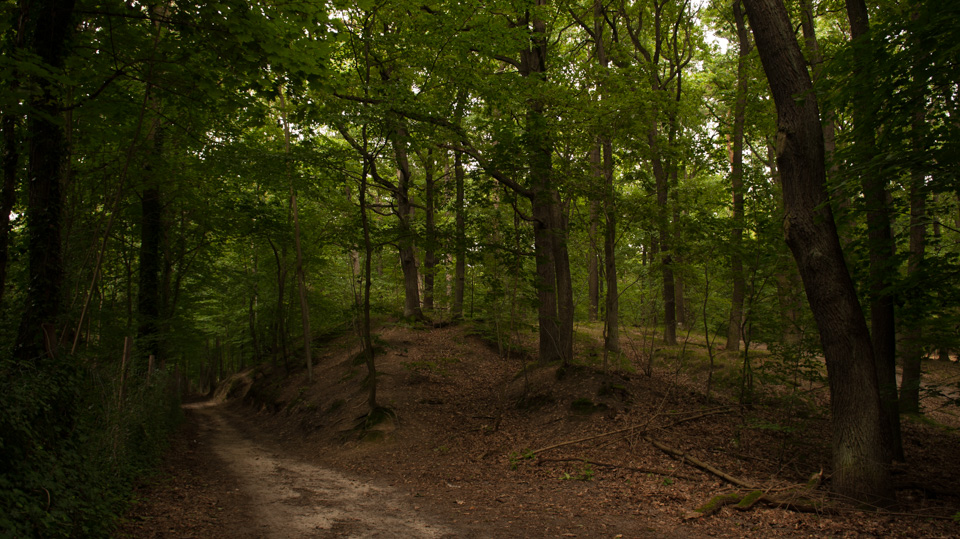
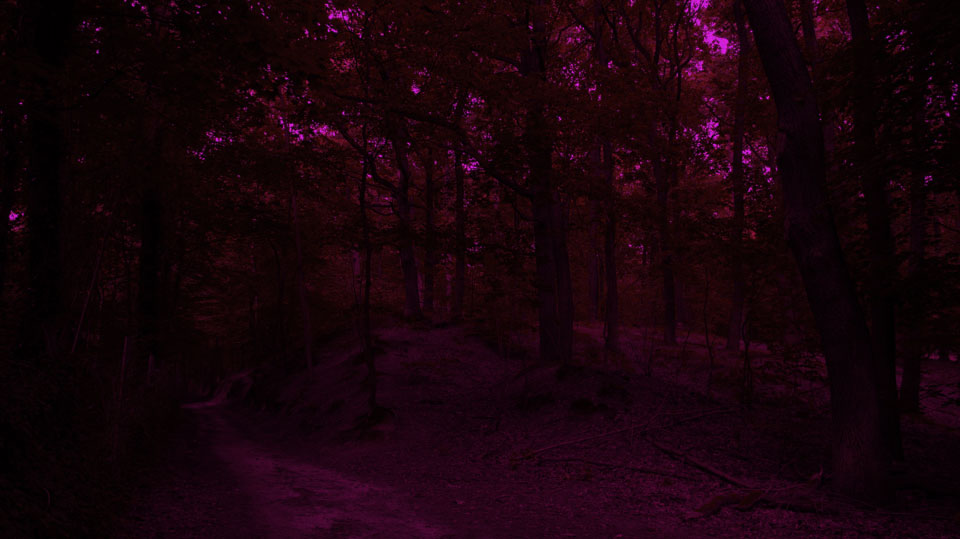
Add files via upload

diff --git a/abilities.html b/abilities.html
@@ -20,5 +20,40 @@
 				</nav>
 			</div>
 		</header>
+
+<div class="row"> 
+	<div class="column">
+		<img src="images/forrest2.jpg" width="100%">
+		<figcaption class="captions">
+			<a href="https://search.creativecommons.org/photos/fc24c6e4-f979-4aef-b0c0-eb5916656e35">"Green forrest path"</a>by JussiSilfver is licensed with<a href="https://creativecommons.org/licenses/by-sa/2.0/">CC BY-SA 2.0</a><br>edits to picture were made: darkened picture + color overlay.
+		</figcaption>
+	</div>
+	<div class="column">
+		<img src="images/patches.jpg" width="100%">
+		
+		</figcaption>
+	</div>
+	<div class="column">
+		<img src="images/forrest4.jpg" width="100%">
+		<figcaption class="captions">
+			<a href="https://search.creativecommons.org/photos/99c7fec0-2b40-4c86-b660-fc1d6550b89b">"Forrest H. Dutlinger Natural Area (Revisit) (2)"</a>by Nicholas_T is licensed with<a href="https://creativecommons.org/licenses/by/2.0/">CC BY 2.0</a>
+		</figcaption>
+	</div>
+</div>
+<p>
+	<h1>abilities</h1>
+	<p class="textstyle"> This character has patches on his body. They change colors to help him camouflage with the environment. He has the ability to move stealthy and jump high. At night, he is able to see in the dark with great detail but his hearing gets bad.</p>
+
+
+
+
+
+
+
+
+
+<footer>	
+	<p> footer info goes here</p>
+</footer>
 	</body>
 	</html>

diff --git a/community.html b/community.html
@@ -20,5 +20,22 @@
 				</nav>
 			</div>
 		</header>
+<img src="images/hero.jpg" alt="forrest" class="hero" align="middle">
+<figcaption class="captions"><a href="https://search.creativecommons.org/photos/8b92b4ec-86df-45a7-bbec-9f94e540e44d">"Green forrest path"</a> by JussiSilfver is licensed with <a href="https://creativecommons.org/licenses/by/2.0/">CC BY 2.0.</a><br>edits to picture were made: darkened picture + added character.</figcaption>
+	
+	<p>
+		<h1>
+		Environment</h1>
+	</p>
+	<p class="textstyle"> Fortem lives with a tribe deep in a jungle. There are several tribes is this jungle. Most of the most part, these tribes at peace with each other. Weather is sunny and warm during the day, but night is ice cold. 
+
+For the most part the jungle is quiet. You can hear birds chirping and flying around. but from time to time you hear drones flying around. You can also hear booms when members of the tribes engage with these drones.   
+ 
+</p>
+
+
+		<footer>	
+	<p> footer info goes here</p>
+</footer>
 	</body>
 	</html>

diff --git a/environment.html b/environment.html
@@ -20,5 +20,22 @@
 				</nav>
 			</div>
 		</header>
+<img src="images/forrest4.jpg" alt="forrest" class="hero" align="middle">
+<figcaption class="captions">
+			<a href="https://search.creativecommons.org/photos/99c7fec0-2b40-4c86-b660-fc1d6550b89b">"Forrest H. Dutlinger Natural Area (Revisit) (2)"</a>by Nicholas_T is licensed with<a href="https://creativecommons.org/licenses/by/2.0/">CC BY 2.0</a>
+		</figcaption>
+	
+	<p>
+		<h1>
+		Environment</h1>
+	</p>
+	<p class="textstyle"> Fortem This character is from a jungle. In the jungle you will find some pyramids and watch towers. This place has a small amount of technology. This place has strong ties to Aztec culture/roots. There are stone statues around the jungle. 
+
+The jungle is located miles away from a futuristic developed city. A city that is determined to take over the jungle and expand its territory. 
+</p>
+
+		<footer>	
+	<p> footer info goes here</p>
+</footer>
 	</body>
 	</html>

diff --git a/impact.html b/impact.html
@@ -20,5 +20,21 @@
 				</nav>
 			</div>
 		</header>
+<img src="images/impact.jpg" alt="forrest" class="hero" align="middle">
+<figcaption class="captions">
+			<a href="https://search.creativecommons.org/photos/6f66c1d1-7530-4fae-a9f0-7d0656bd25c8">"Minot, Barksdale aircrews demonstrate elite, disciplined teamwork [Image 10 of 17]"</a>by DVIDSHUB is licensed under<a href="https://creativecommons.org/licenses/by/2.0/">CC BY 2.0</a>
+		</figcaption>
+	
+	<p>
+		<h1>
+		Impact</h1>
+	</p>
+	<p class="textstyle"> Fortem is about 5’10, medium body frame, tan’sh skin color. He has patches all over his body. Strong but not super strong. He is funny and caring. He is proud of where he is from. He tries to make sure he can provide his tribe with as much resource as they need. he often volunteers to help out. 
+</p>
+
+
+		<footer>	
+	<p> footer info goes here</p>
+</footer>
 	</body>
 	</html>

diff --git a/about.html b/about.html
@@ -20,5 +20,16 @@
 				</nav>
 			</div>
 		</header>
+	
+	<img src="images/abouthero.jpg" alt="hero" class="hero" align="middle">
+	
+	<p>
+		<h1>
+		About Fortem</h1>
+	</p>
+	<p class="textstyle"> Fortem looks like a normal human except for the patches that he has in his body. He has facial hair and long hair he puts into a bun. His eyes glow dark purple at night. </p>
+	<footer>	
+	<p> footer info goes here</p>
+</footer>
 	</body>
 	</html>

diff --git a/styles.css b/styles.css
@@ -102,6 +102,7 @@ color: #A3A274;
 background-color: #3A2900;
 color: #A3A274;
 padding: 	10px ;
+text-size: 5px;
 }
 
 .photo_credit {
@@ -115,4 +116,10 @@ h1{
 	color: #A3A274;
 	padding: 10px;
 	text-transform: uppercase;
+}
+
+.textstyle {
+	color: #A3A274;
+	padding: 5px;
+	margin: 10px;	
 }
